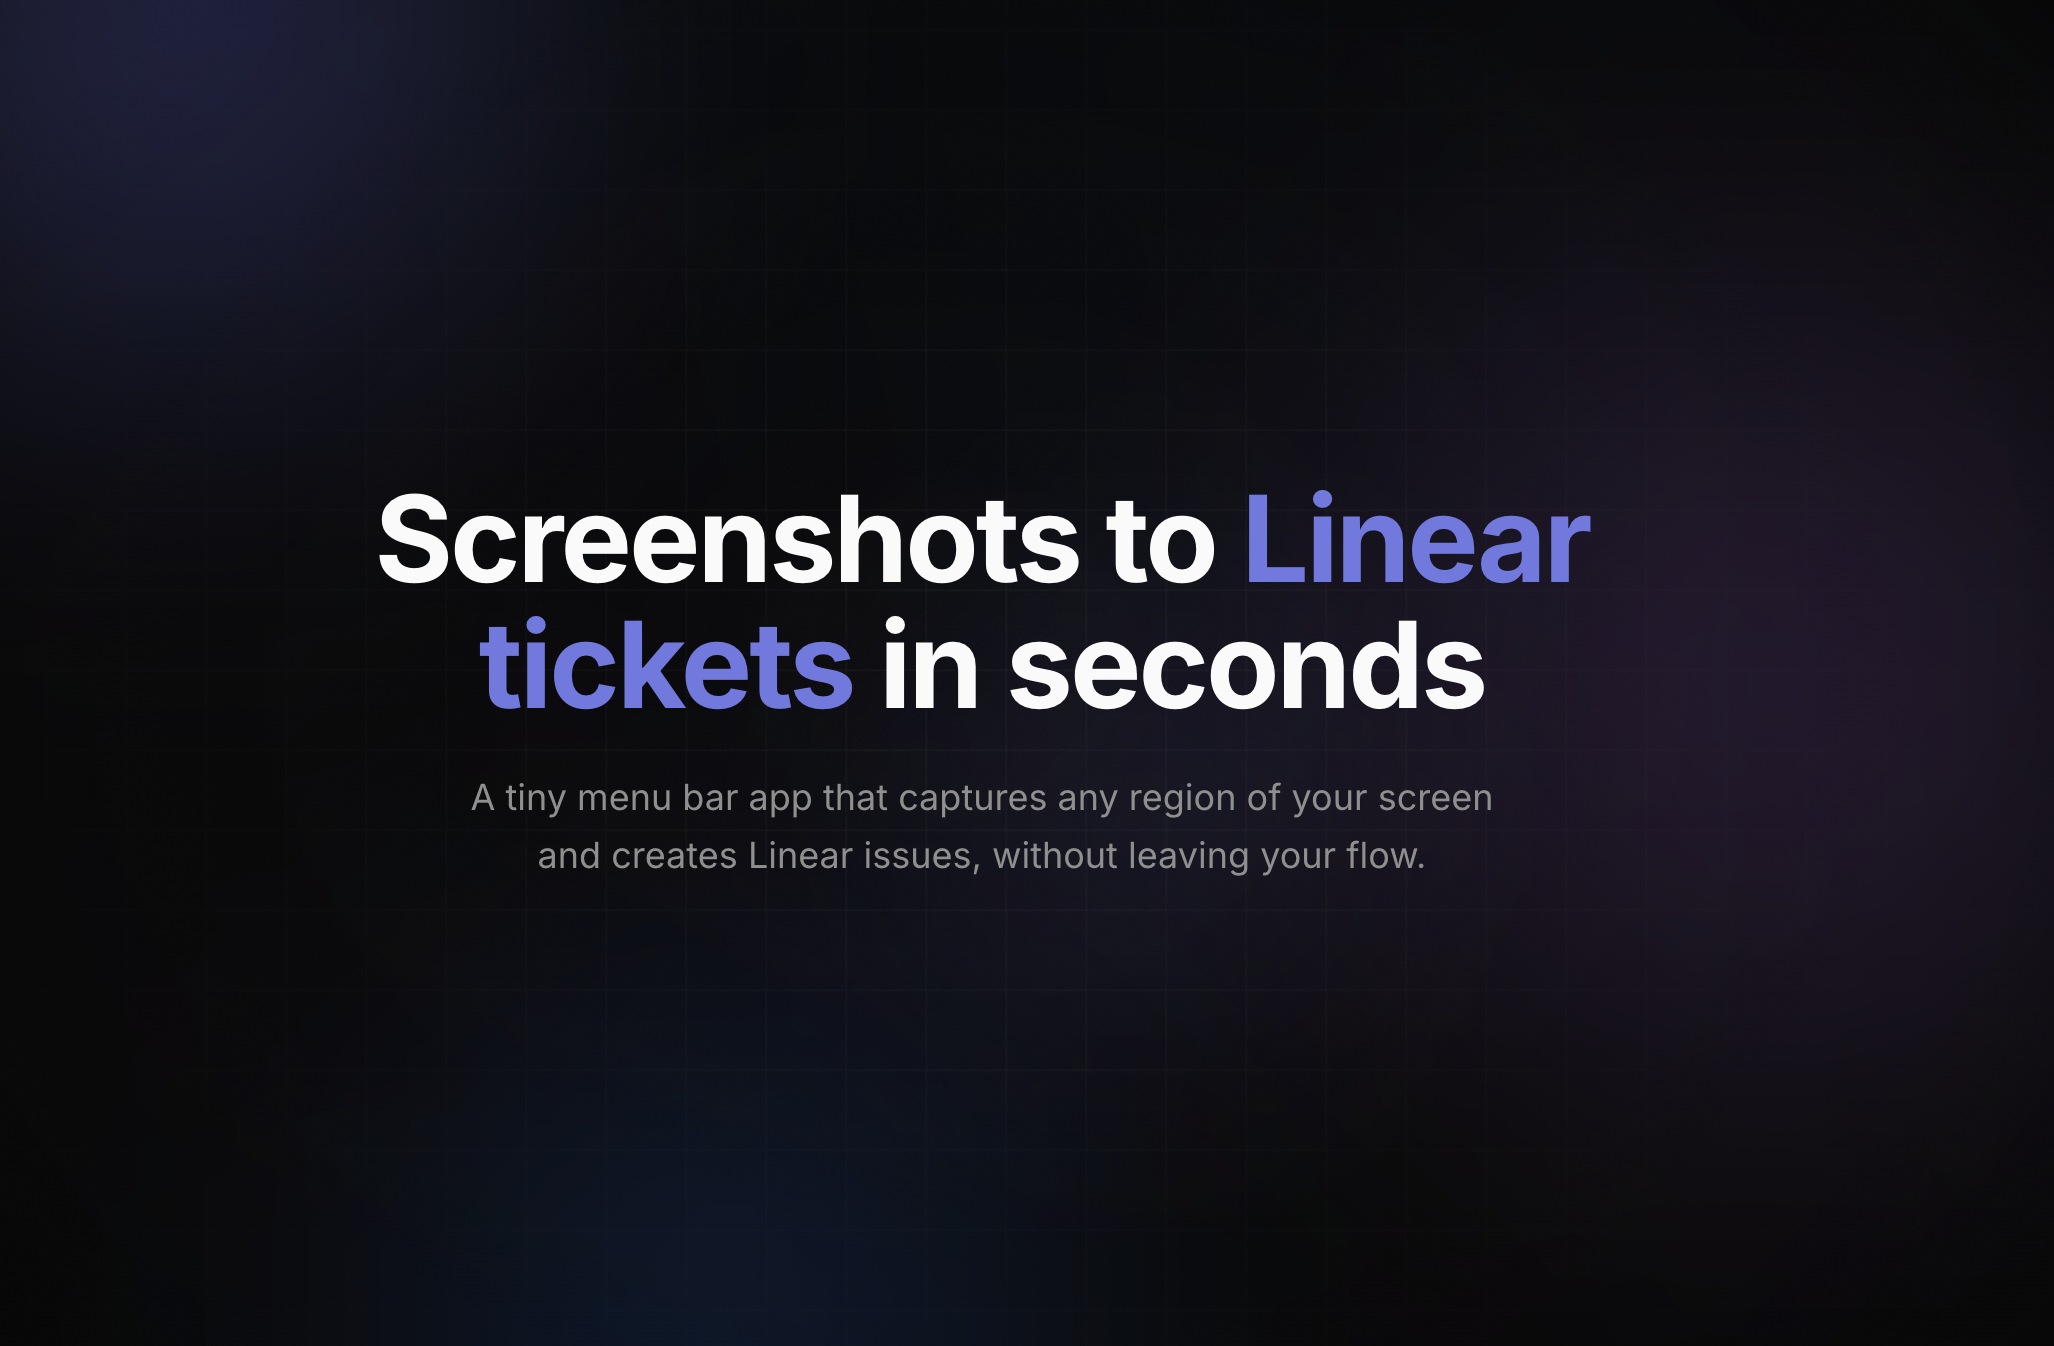
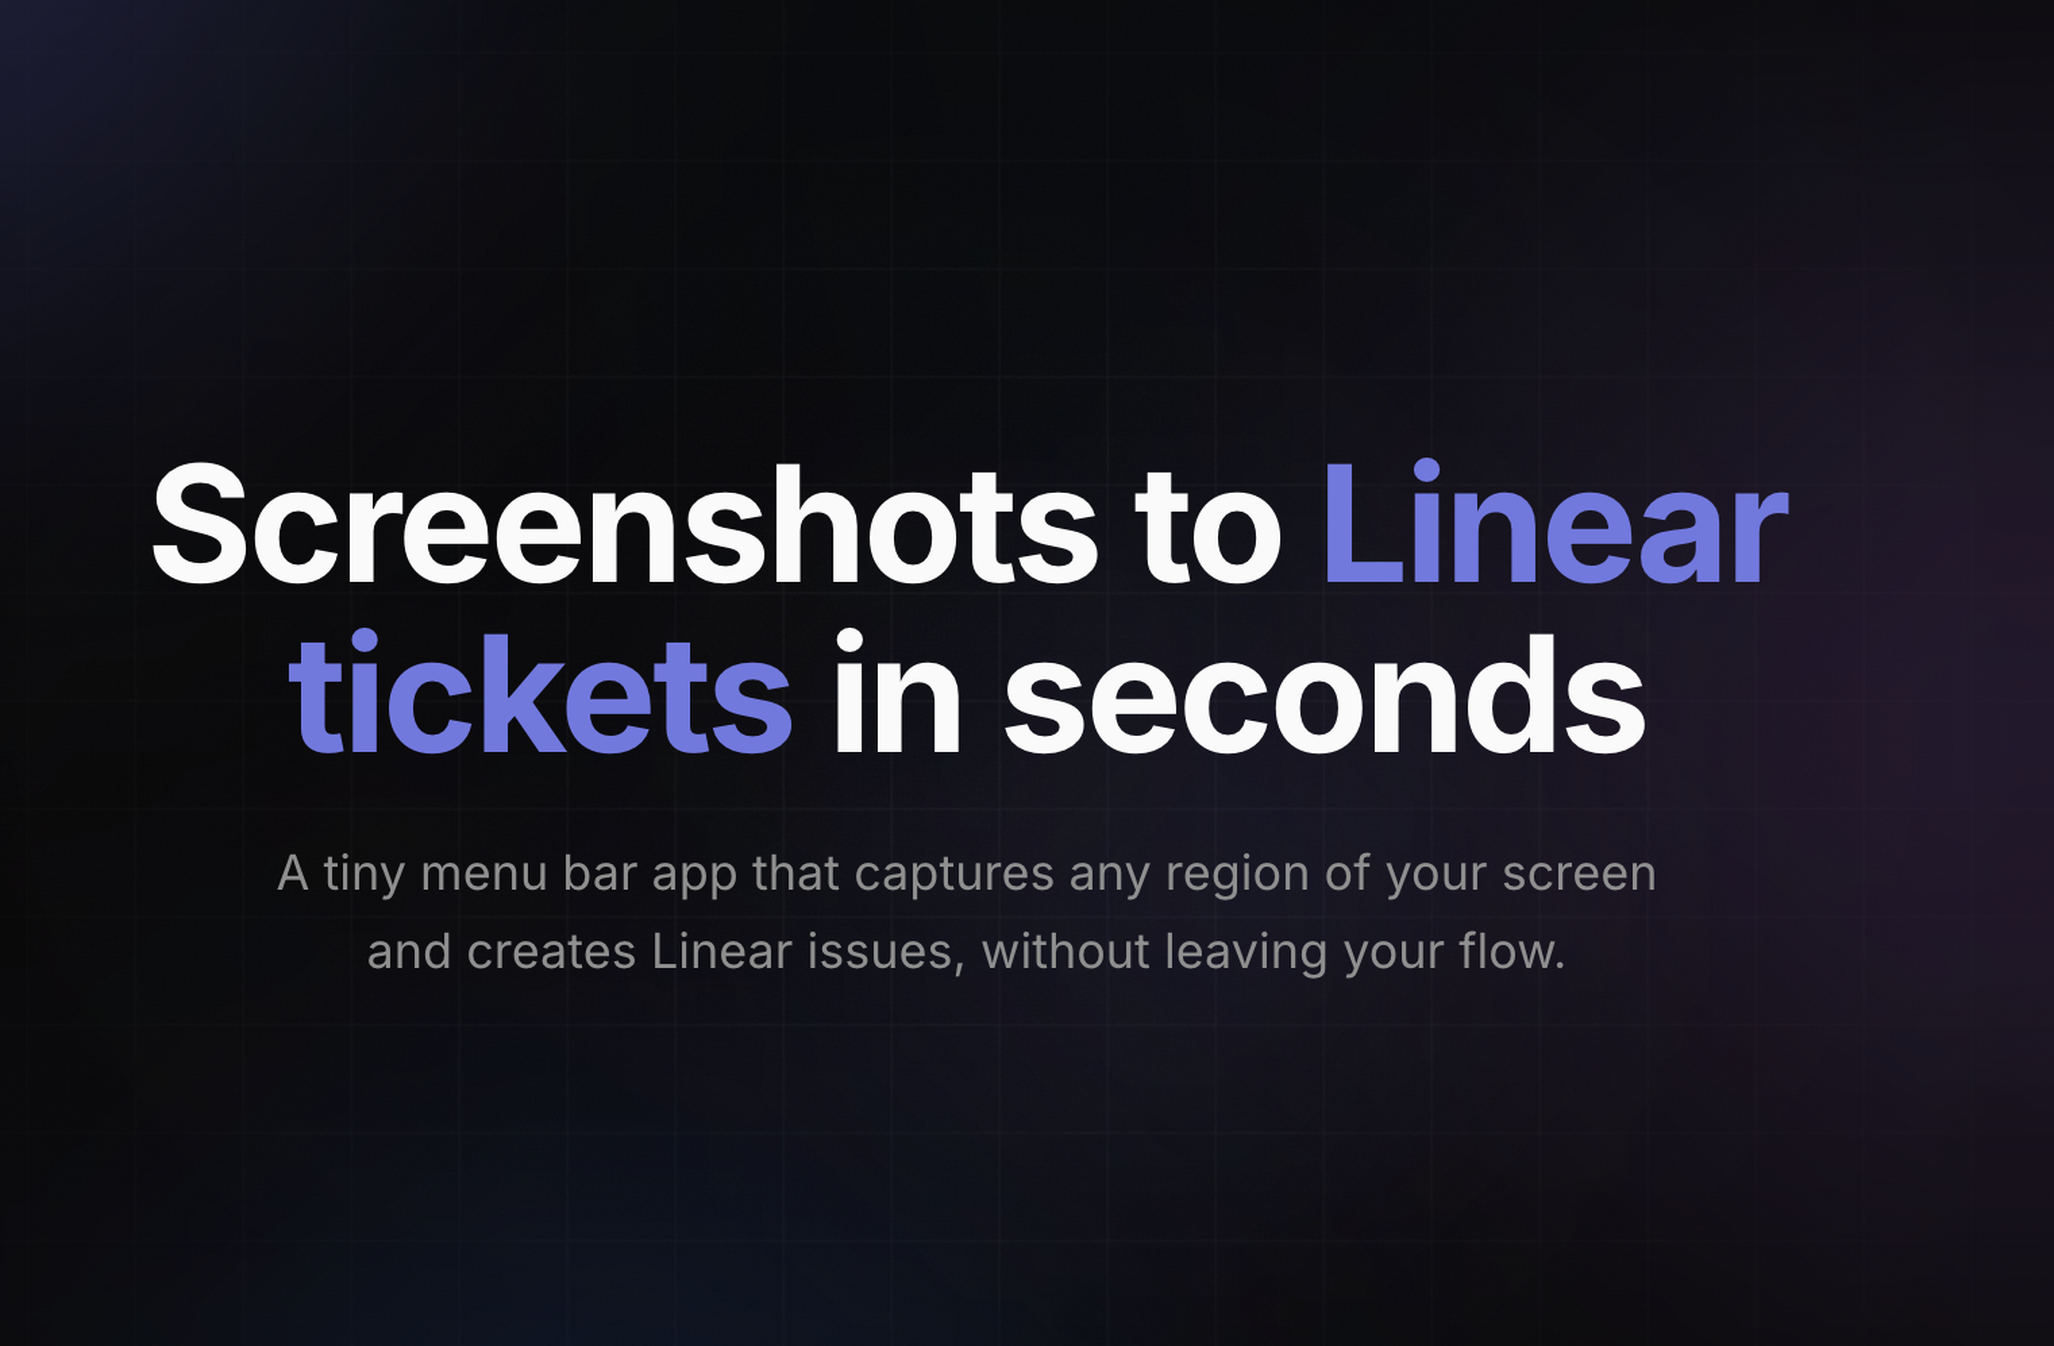
Zoomed image + hero

Changed region(s): [[0.0623, 0.3432, 0.8724, 0.4368], [0.1246, 0.4681, 0.8101, 0.5617], [0.1246, 0.5929, 0.8101, 0.7177]]

diff --git a/website/src/components/Hero.tsx b/website/src/components/Hero.tsx
@@ -44,7 +44,7 @@ export function Hero() {
         custom={1}
         className="text-4xl sm:text-5xl lg:text-6xl font-bold tracking-tight leading-[1.05]"
       >
-        Tickets at <span className="text-primary">lightening</span> speed
+        Screenshots to <span className="text-primary">Linear tickets</span> in seconds
       </m.h1>
 
       <m.p
